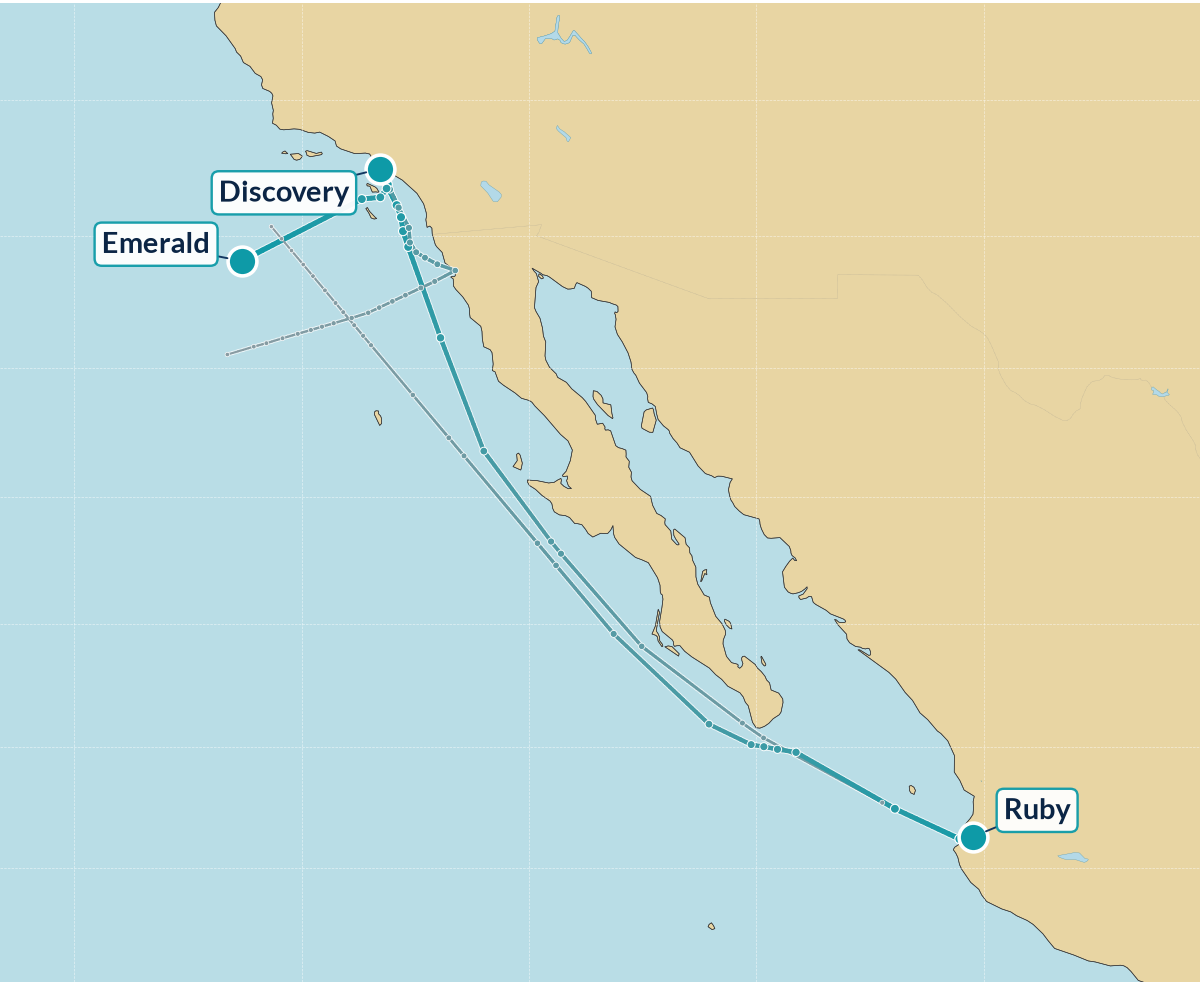
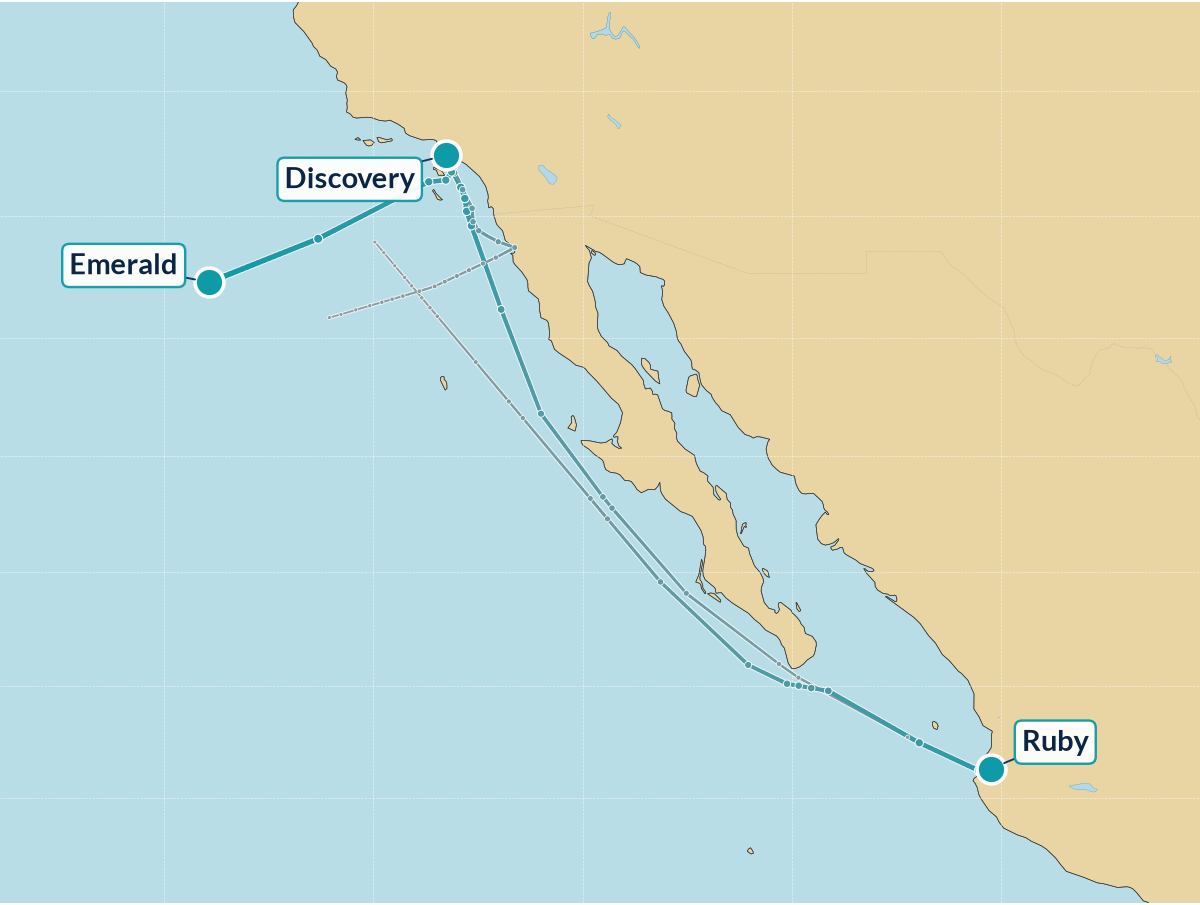
Update 10/17 17:00 PT

Changed region(s): [[0.0, 0.0, 1.0, 1.0], [0.4317, 0.0, 0.5242, 0.0619], [0.9558, 0.3713, 0.9867, 0.4022]]

diff --git a/index.html b/index.html
@@ -1,46 +1,46 @@
 <!DOCTYPE html><html lang="en"><head><meta charset="utf-8"><meta name="viewport" content="width=device-width, initial-scale=1"><meta http-equiv="refresh" content="1800"><meta name="description" content="Live Princess Cruises fleet tracker"><title>Princess Patter — Saturday, October 17, 2026</title></head>
 <body style="margin:0;padding:0;background-color:#dee2e8;">
-<div style="display:none;max-height:0;overflow:hidden;opacity:0;color:#dee2e8;font-size:1px;line-height:1px;">Saturday, October 17, 2026 — 8:00am PT | 17 ships | 7 at sea, 10 in port</div>
+<div style="display:none;max-height:0;overflow:hidden;opacity:0;color:#dee2e8;font-size:1px;line-height:1px;">Saturday, October 17, 2026 — 4:00pm PT | 17 ships | 12 at sea, 5 in port</div>
 <table role="presentation" width="100%" cellpadding="0" cellspacing="0" border="0" bgcolor="#dee2e8" style="background-color:#dee2e8;border-collapse:collapse;"><tr><td align="center" style="padding:16px 8px;">
 <table role="presentation" width="100%" cellpadding="0" cellspacing="0" border="0" bgcolor="#fdfdfb" style="width:100%;max-width:900px;background-color:#fdfdfb;border-collapse:collapse;border:1px solid #d6dae0;">
 <tr><td bgcolor="#1d3a6b" align="left" style="background-color:#1d3a6b;padding:24px 28px 24px 28px;"><div style="font-family:Georgia, 'Times New Roman', Times, serif;font-size:40px;line-height:46px;color:#ffffff;letter-spacing:0.5px;"><span style="color:#a8b6e2;">≋</span>&nbsp;Princess Patter</div></td></tr>
-<tr><td style="padding:0;"><table role="presentation" width="100%" cellpadding="0" cellspacing="0" border="0" style="border-collapse:collapse;"><tr><td height="5" bgcolor="#6a5aa8" style="background-color:#6a5aa8;height:5px;font-size:0;line-height:0;width:60%;">&nbsp;</td><td height="5" bgcolor="#2f6db5" style="background-color:#2f6db5;height:5px;font-size:0;line-height:0;width:40%;">&nbsp;</td></tr></table></td></tr><tr><td bgcolor="#1d3a6b" style="background:linear-gradient(#1d3a6b,#2f6db5);padding:10px 16px 14px;text-align:center;"><img src="regal.png?v=202610171601" alt="Regal Princess" style="width:100%;max-width:640px;height:auto;display:block;margin:0 auto;"></td></tr>
+<tr><td style="padding:0;"><table role="presentation" width="100%" cellpadding="0" cellspacing="0" border="0" style="border-collapse:collapse;"><tr><td height="5" bgcolor="#6a5aa8" style="background-color:#6a5aa8;height:5px;font-size:0;line-height:0;width:60%;">&nbsp;</td><td height="5" bgcolor="#2f6db5" style="background-color:#2f6db5;height:5px;font-size:0;line-height:0;width:40%;">&nbsp;</td></tr></table></td></tr><tr><td bgcolor="#1d3a6b" style="background:linear-gradient(#1d3a6b,#2f6db5);padding:10px 16px 14px;text-align:center;"><img src="regal.png?v=202610171700" alt="Regal Princess" style="width:100%;max-width:640px;height:auto;display:block;margin:0 auto;"></td></tr>
 <tr><td style="padding:22px 20px 6px 20px;">
-<div style="font-family:Georgia, 'Times New Roman', Times, serif;font-style:italic;font-size:20px;line-height:26px;color:#2f6db5;">Good morning!</div>
+<div style="font-family:Georgia, 'Times New Roman', Times, serif;font-style:italic;font-size:20px;line-height:26px;color:#2f6db5;">Good afternoon!</div>
 <div style="font-family:Georgia, 'Times New Roman', Times, serif;font-weight:bold;font-size:26px;line-height:32px;color:#1d3a6b;padding-top:6px;">Saturday, October 17, 2026</div>
-<div style="font-family:Helvetica, Arial, sans-serif;font-size:16px;line-height:22px;color:#2f6db5;padding-top:4px;">8:00am PT | 17 ships | 7 at sea, 10 in port</div>
-</td></tr><tr><td style="padding:14px 20px 0 20px;"><div style="font-family:Georgia, 'Times New Roman', Times, serif;font-style:italic;font-weight:bold;font-size:18px;color:#295aa0;padding:0 4px 4px;border-bottom:1px solid #295aa0;">pacific map</div><a href="map.png?v=202610171601"><img src="map.png?v=202610171601" alt="Pacific fleet map" style="width:100%;height:auto;display:block;margin-top:8px;border-radius:12px;border:2px solid #c8dee2;"></a></td></tr>
+<div style="font-family:Helvetica, Arial, sans-serif;font-size:16px;line-height:22px;color:#2f6db5;padding-top:4px;">4:00pm PT | 17 ships | 12 at sea, 5 in port</div>
+</td></tr><tr><td style="padding:14px 20px 0 20px;"><div style="font-family:Georgia, 'Times New Roman', Times, serif;font-style:italic;font-weight:bold;font-size:18px;color:#295aa0;padding:0 4px 4px;border-bottom:1px solid #295aa0;">pacific map</div><a href="map.png?v=202610171700"><img src="map.png?v=202610171700" alt="Pacific fleet map" style="width:100%;height:auto;display:block;margin-top:8px;border-radius:12px;border:2px solid #c8dee2;"></a></td></tr>
 <tr><td style="padding:14px 20px 4px 20px;">
 <table role="presentation" width="100%" cellpadding="0" cellspacing="0" border="0" style="border-collapse:collapse;width:100%;font-family:Helvetica, Arial, sans-serif;font-size:15px;line-height:20px;color:#262c38;">
 <tr bgcolor="#2f6db5" style="background-color:#2f6db5;"><td style="font-size:14px;line-height:18px;font-weight:bold;color:#ffffff;text-align:left;padding:9px 8px;padding-left:10px;" colspan="2">Ship</td><td style="font-size:14px;line-height:18px;font-weight:bold;color:#ffffff;text-align:left;padding:9px 8px;">Where</td><td style="font-size:14px;line-height:18px;font-weight:bold;color:#ffffff;text-align:left;padding:9px 8px;">Next Port</td></tr>
 <tr><td colspan="4" style="padding:14px 4px 4px 4px;border-bottom:1px solid #295aa0;font-family:Georgia, 'Times New Roman', Times, serif;font-style:italic;font-weight:bold;font-size:18px;line-height:22px;color:#295aa0;">canada &amp; new england</td></tr>
-<tr bgcolor="#eef0f3" style="background-color:#eef0f3;"><td width="18" style="padding:7px 0 7px 8px;vertical-align:top;width:18px;color:#1a9a9a;font-size:18px;">&nbsp;</td><td style="padding:7px 8px;vertical-align:top;"><b style="color:#1d3a6b;">Majestic</b></td><td style="padding:7px 8px;vertical-align:top;">New York <span style="white-space:nowrap;font-size:12px;color:#707884;" title="Forecast high/low">🌙&thinsp;47°</span> <span style="font-size:13px;color:#707884;">(1pm)</span></td><td style="padding:7px 8px;vertical-align:top;">Newport <span style="white-space:nowrap;font-size:12px;color:#707884;" title="Forecast high/low">☁&thinsp;56°/43°</span> <span style="font-size:13px;color:#707884;">(10/18 4am)</span></td></tr>
-<tr bgcolor="#ffffff" style="background-color:#ffffff;"><td width="18" style="padding:7px 0 7px 8px;vertical-align:top;width:18px;color:#1a9a9a;font-size:18px;">&nbsp;</td><td style="padding:7px 8px;vertical-align:top;"><b style="color:#1d3a6b;">Sapphire</b></td><td style="padding:7px 8px;vertical-align:top;">Halifax <span style="white-space:nowrap;font-size:12px;color:#707884;" title="Forecast high/low">☁&thinsp;42°</span> <span style="font-size:13px;color:#707884;">(12pm)</span></td><td style="padding:7px 8px;vertical-align:top;">Sydney NS <span style="font-size:13px;color:#707884;">(10/18 5am)</span></td></tr>
+<tr bgcolor="#eef0f3" style="background-color:#eef0f3;"><td width="18" style="padding:7px 0 7px 8px;vertical-align:top;width:18px;color:#1a9a9a;font-size:18px;">&nbsp;</td><td style="padding:7px 8px;vertical-align:top;"><b style="color:#1d3a6b;">Majestic</b></td><td style="padding:7px 8px;vertical-align:top;">At Sea <span style="white-space:nowrap;font-size:12px;color:#707884;" title="Forecast high/low">🌙&thinsp;53°</span> <span style="font-size:12px;color:#707884;"><span style="white-space:nowrap;">🌊 3 ft</span> &middot; <span style="white-space:nowrap;">💨 N 16 kt</span> &middot; <span style="white-space:nowrap;">🚢 12.7 kn</span></span></td><td style="padding:7px 8px;vertical-align:top;">Newport <span style="white-space:nowrap;font-size:12px;color:#707884;" title="Forecast high/low">☁&thinsp;56°/43°</span> <span style="font-size:13px;color:#707884;">(10/18 4am)</span></td></tr>
+<tr bgcolor="#ffffff" style="background-color:#ffffff;"><td width="18" style="padding:7px 0 7px 8px;vertical-align:top;width:18px;color:#1a9a9a;font-size:18px;">&nbsp;</td><td style="padding:7px 8px;vertical-align:top;"><b style="color:#1d3a6b;">Sapphire</b></td><td style="padding:7px 8px;vertical-align:top;">At Sea <span style="white-space:nowrap;font-size:12px;color:#707884;" title="Forecast high/low">☁&thinsp;49°</span> <span style="font-size:12px;color:#707884;"><span style="white-space:nowrap;">🌊 6 ft</span> &middot; <span style="white-space:nowrap;">💨 NW 10 kt</span> &middot; <span style="white-space:nowrap;">🚢 17.7 kn</span></span></td><td style="padding:7px 8px;vertical-align:top;">Sydney NS <span style="font-size:13px;color:#707884;">(10/18 5am)</span></td></tr>
 <tr><td colspan="4" style="padding:14px 4px 4px 4px;border-bottom:1px solid #295aa0;font-family:Georgia, 'Times New Roman', Times, serif;font-style:italic;font-weight:bold;font-size:18px;line-height:22px;color:#295aa0;">caribbean</td></tr>
-<tr bgcolor="#eef0f3" style="background-color:#eef0f3;"><td width="18" style="padding:7px 0 7px 8px;vertical-align:top;width:18px;color:#1a9a9a;font-size:18px;">&nbsp;</td><td style="padding:7px 8px;vertical-align:top;"><b style="color:#1d3a6b;">Caribbean</b></td><td style="padding:7px 8px;vertical-align:top;">At Sea <span style="white-space:nowrap;font-size:12px;color:#707884;" title="Forecast high/low">🌙&thinsp;85°</span> <span style="font-size:12px;color:#707884;"><span style="white-space:nowrap;">🌊 2 ft</span> &middot; <span style="white-space:nowrap;">💨 SSE 4 kt</span> &middot; <span style="white-space:nowrap;">🚢 18.2 kn</span></span></td><td style="padding:7px 8px;vertical-align:top;">Port Canaveral <span style="white-space:nowrap;font-size:12px;color:#707884;" title="Forecast high/low">☁&thinsp;80°/71°</span> <span style="font-size:13px;color:#707884;">(10/18 4am)</span></td></tr>
-<tr bgcolor="#ffffff" style="background-color:#ffffff;"><td width="18" style="padding:7px 0 7px 8px;vertical-align:top;width:18px;color:#1a9a9a;font-size:18px;">&nbsp;</td><td style="padding:7px 8px;vertical-align:top;"><b style="color:#1d3a6b;">Coral</b></td><td style="padding:7px 8px;vertical-align:top;">At Sea <span style="white-space:nowrap;font-size:12px;color:#707884;" title="Forecast high/low">🌙&thinsp;86°</span> <span style="font-size:12px;color:#707884;"><span style="white-space:nowrap;">🌊 4 ft</span> &middot; <span style="white-space:nowrap;">💨 E 10 kt</span> &middot; <span style="white-space:nowrap;">🚢 16.3 kn</span></span></td><td style="padding:7px 8px;vertical-align:top;">Philipsburg <span style="white-space:nowrap;font-size:12px;color:#707884;" title="Forecast high/low">🌦&thinsp;85°/82°</span> <span style="font-size:13px;color:#707884;">(10/18 6am)</span></td></tr>
-<tr bgcolor="#eef0f3" style="background-color:#eef0f3;"><td width="18" style="padding:7px 0 7px 8px;vertical-align:top;width:18px;color:#1a9a9a;font-size:18px;">&nbsp;</td><td style="padding:7px 8px;vertical-align:top;"><b style="color:#1d3a6b;">Regal</b></td><td style="padding:7px 8px;vertical-align:top;">Fort Lauderdale <span style="white-space:nowrap;font-size:12px;color:#707884;" title="Forecast high/low">🌧&thinsp;75°</span> <span style="font-size:13px;color:#707884;">(12pm)</span></td><td style="padding:7px 8px;vertical-align:top;">Princess Cays <span style="font-size:13px;color:#707884;">(10/18 6am)</span></td></tr>
-<tr bgcolor="#ffffff" style="background-color:#ffffff;"><td width="18" style="padding:7px 0 7px 8px;vertical-align:top;width:18px;color:#1a9a9a;font-size:18px;">&nbsp;</td><td style="padding:7px 8px;vertical-align:top;"><b style="color:#1d3a6b;">Star</b></td><td style="padding:7px 8px;vertical-align:top;">Oranjestad <span style="white-space:nowrap;font-size:12px;color:#707884;" title="Forecast high/low">🌙&thinsp;84°</span> <span style="font-size:13px;color:#707884;">(1pm)</span></td><td style="padding:7px 8px;vertical-align:top;">Fort Lauderdale <span style="white-space:nowrap;font-size:12px;color:#707884;" title="Forecast high/low">🌦&thinsp;83°/78°</span> <span style="font-size:13px;color:#707884;">(10/20 3am)</span></td></tr>
+<tr bgcolor="#eef0f3" style="background-color:#eef0f3;"><td width="18" style="padding:7px 0 7px 8px;vertical-align:top;width:18px;color:#1a9a9a;font-size:18px;">&nbsp;</td><td style="padding:7px 8px;vertical-align:top;"><b style="color:#1d3a6b;">Caribbean</b></td><td style="padding:7px 8px;vertical-align:top;">At Sea <span style="white-space:nowrap;font-size:12px;color:#707884;" title="Forecast high/low">☁&thinsp;84°</span> <span style="font-size:12px;color:#707884;"><span style="white-space:nowrap;">🌊 1 ft</span> &middot; <span style="white-space:nowrap;">💨 NNW 7 kt</span> &middot; <span style="white-space:nowrap;">🚢 16.1 kn</span></span></td><td style="padding:7px 8px;vertical-align:top;">Port Canaveral <span style="white-space:nowrap;font-size:12px;color:#707884;" title="Forecast high/low">☁&thinsp;80°/71°</span> <span style="font-size:13px;color:#707884;">(10/18 4am)</span></td></tr>
+<tr bgcolor="#ffffff" style="background-color:#ffffff;"><td width="18" style="padding:7px 0 7px 8px;vertical-align:top;width:18px;color:#1a9a9a;font-size:18px;">&nbsp;</td><td style="padding:7px 8px;vertical-align:top;"><b style="color:#1d3a6b;">Coral</b></td><td style="padding:7px 8px;vertical-align:top;">At Sea <span style="white-space:nowrap;font-size:12px;color:#707884;" title="Forecast high/low">☁&thinsp;85°</span> <span style="font-size:12px;color:#707884;"><span style="white-space:nowrap;">🌊 4 ft</span> &middot; <span style="white-space:nowrap;">💨 E 12 kt</span> &middot; <span style="white-space:nowrap;">🚢 16.3 kn</span></span></td><td style="padding:7px 8px;vertical-align:top;">Philipsburg <span style="white-space:nowrap;font-size:12px;color:#707884;" title="Forecast high/low">🌦&thinsp;85°/82°</span> <span style="font-size:13px;color:#707884;">(10/18 6am)</span></td></tr>
+<tr bgcolor="#eef0f3" style="background-color:#eef0f3;"><td width="18" style="padding:7px 0 7px 8px;vertical-align:top;width:18px;color:#1a9a9a;font-size:18px;">&nbsp;</td><td style="padding:7px 8px;vertical-align:top;"><b style="color:#1d3a6b;">Regal</b></td><td style="padding:7px 8px;vertical-align:top;">At Sea <span style="white-space:nowrap;font-size:12px;color:#707884;" title="Forecast high/low">☁&thinsp;81°</span> <span style="font-size:12px;color:#707884;"><span style="white-space:nowrap;">🌊 1 ft</span> &middot; <span style="white-space:nowrap;">💨 NNW 17 kt</span> &middot; <span style="white-space:nowrap;">🚢 16.8 kn</span></span></td><td style="padding:7px 8px;vertical-align:top;">Princess Cays <span style="font-size:13px;color:#707884;">(10/18 6am)</span></td></tr>
+<tr bgcolor="#ffffff" style="background-color:#ffffff;"><td width="18" style="padding:7px 0 7px 8px;vertical-align:top;width:18px;color:#1a9a9a;font-size:18px;">&nbsp;</td><td style="padding:7px 8px;vertical-align:top;"><b style="color:#1d3a6b;">Star</b></td><td style="padding:7px 8px;vertical-align:top;">At Sea <span style="white-space:nowrap;font-size:12px;color:#707884;" title="Forecast high/low">🌙&thinsp;84°</span> <span style="font-size:12px;color:#707884;"><span style="white-space:nowrap;">🌊 5 ft</span> &middot; <span style="white-space:nowrap;">💨 E 19 kt</span> &middot; <span style="white-space:nowrap;">🚢 19.5 kn</span></span></td><td style="padding:7px 8px;vertical-align:top;">Fort Lauderdale <span style="white-space:nowrap;font-size:12px;color:#707884;" title="Forecast high/low">🌦&thinsp;82°/79°</span> <span style="font-size:13px;color:#707884;">(10/20 3am)</span></td></tr>
 <tr><td colspan="4" style="padding:14px 4px 4px 4px;border-bottom:1px solid #295aa0;font-family:Georgia, 'Times New Roman', Times, serif;font-style:italic;font-weight:bold;font-size:18px;line-height:22px;color:#295aa0;">hawaii</td></tr>
-<tr bgcolor="#eef0f3" style="background-color:#eef0f3;"><td width="18" style="padding:7px 0 7px 8px;vertical-align:top;width:18px;color:#1a9a9a;font-size:18px;">&nbsp;</td><td style="padding:7px 8px;vertical-align:top;"><b style="color:#1d3a6b;">Emerald</b></td><td style="padding:7px 8px;vertical-align:top;">At Sea <span style="white-space:nowrap;font-size:12px;color:#707884;" title="Forecast high/low">☀&thinsp;67°</span> <span style="font-size:12px;color:#707884;"><span style="white-space:nowrap;">🌊 5 ft</span> &middot; <span style="white-space:nowrap;">💨 E 7 kt</span> &middot; <span style="white-space:nowrap;">🚢 17.3 kn</span></span></td><td style="padding:7px 8px;vertical-align:top;">Hilo <span style="white-space:nowrap;font-size:12px;color:#707884;" title="Forecast high/low">🌦&thinsp;78°/62°</span> <span style="font-size:13px;color:#707884;">(10/22 11am)</span></td></tr>
+<tr bgcolor="#eef0f3" style="background-color:#eef0f3;"><td width="18" style="padding:7px 0 7px 8px;vertical-align:top;width:18px;color:#1a9a9a;font-size:18px;">&nbsp;</td><td style="padding:7px 8px;vertical-align:top;"><b style="color:#1d3a6b;">Emerald</b></td><td style="padding:7px 8px;vertical-align:top;">At Sea <span style="white-space:nowrap;font-size:12px;color:#707884;" title="Forecast high/low">☀&thinsp;67°</span> <span style="font-size:12px;color:#707884;"><span style="white-space:nowrap;">🌊 5 ft</span> &middot; <span style="white-space:nowrap;">💨 N 12 kt</span> &middot; <span style="white-space:nowrap;">🚢 17.5 kn</span></span></td><td style="padding:7px 8px;vertical-align:top;">Hilo <span style="white-space:nowrap;font-size:12px;color:#707884;" title="Forecast high/low">🌦&thinsp;78°/62°</span> <span style="font-size:13px;color:#707884;">(10/22 11am)</span></td></tr>
 <tr><td colspan="4" style="padding:14px 4px 4px 4px;border-bottom:1px solid #295aa0;font-family:Georgia, 'Times New Roman', Times, serif;font-style:italic;font-weight:bold;font-size:18px;line-height:22px;color:#295aa0;">mexican riviera</td></tr>
-<tr bgcolor="#eef0f3" style="background-color:#eef0f3;"><td width="18" style="padding:7px 0 7px 8px;vertical-align:top;width:18px;color:#1a9a9a;font-size:18px;">&nbsp;</td><td style="padding:7px 8px;vertical-align:top;"><b style="color:#1d3a6b;">Discovery</b></td><td style="padding:7px 8px;vertical-align:top;">Los Angeles <span style="white-space:nowrap;font-size:12px;color:#707884;" title="Forecast high/low">☁&thinsp;90°</span> <span style="font-size:13px;color:#707884;">(3pm)</span></td><td style="padding:7px 8px;vertical-align:top;">Cabo San Lucas <span style="white-space:nowrap;font-size:12px;color:#707884;" title="Forecast high/low">⛈&thinsp;92°/78°</span> <span style="font-size:13px;color:#707884;">(10/19 12pm)</span></td></tr>
+<tr bgcolor="#eef0f3" style="background-color:#eef0f3;"><td width="18" style="padding:7px 0 7px 8px;vertical-align:top;width:18px;color:#1a9a9a;font-size:18px;">&nbsp;</td><td style="padding:7px 8px;vertical-align:top;"><b style="color:#1d3a6b;">Discovery</b></td><td style="padding:7px 8px;vertical-align:top;">Los Angeles <span style="white-space:nowrap;font-size:12px;color:#707884;" title="Forecast high/low">☁&thinsp;89°</span> <span style="font-size:13px;color:#707884;">(3pm)</span></td><td style="padding:7px 8px;vertical-align:top;">Cabo San Lucas <span style="white-space:nowrap;font-size:12px;color:#707884;" title="Forecast high/low">⛈&thinsp;92°/78°</span> <span style="font-size:13px;color:#707884;">(10/19 12pm)</span></td></tr>
 <tr bgcolor="#ffffff" style="background-color:#ffffff;"><td width="18" style="padding:7px 0 7px 8px;vertical-align:top;width:18px;color:#1a9a9a;font-size:18px;">&nbsp;</td><td style="padding:7px 8px;vertical-align:top;"><b style="color:#1d3a6b;">Ruby</b></td><td style="padding:7px 8px;vertical-align:top;">Puerto Vallarta <span style="white-space:nowrap;font-size:12px;color:#707884;" title="Forecast high/low">☁&thinsp;84°</span> <span style="font-size:13px;color:#707884;">(5pm)</span></td><td style="padding:7px 8px;vertical-align:top;">Manzanillo <span style="white-space:nowrap;font-size:12px;color:#707884;" title="Forecast high/low">🌦&thinsp;86°/73°</span> <span style="font-size:13px;color:#707884;">(10/18 6am)</span></td></tr>
 <tr><td colspan="4" style="padding:14px 4px 4px 4px;border-bottom:1px solid #295aa0;font-family:Georgia, 'Times New Roman', Times, serif;font-style:italic;font-weight:bold;font-size:18px;line-height:22px;color:#295aa0;">asia</td></tr>
-<tr bgcolor="#eef0f3" style="background-color:#eef0f3;"><td width="18" style="padding:7px 0 7px 8px;vertical-align:top;width:18px;color:#1a9a9a;font-size:18px;">&nbsp;</td><td style="padding:7px 8px;vertical-align:top;"><b style="color:#1d3a6b;">Diamond</b></td><td style="padding:7px 8px;vertical-align:top;">At Sea <span style="white-space:nowrap;font-size:12px;color:#707884;" title="Forecast high/low">☀&thinsp;80°</span> <span style="font-size:12px;color:#707884;"><span style="white-space:nowrap;">🌊 5 ft</span> &middot; <span style="white-space:nowrap;">💨 SE 18 kt</span> &middot; <span style="white-space:nowrap;">🚢 18.6 kn</span></span></td><td style="padding:7px 8px;vertical-align:top;">Yokohama <span style="white-space:nowrap;font-size:12px;color:#707884;" title="Forecast high/low">☀&thinsp;71°/55°</span> <span style="font-size:13px;color:#707884;">(10/18 2:30pm)</span></td></tr>
+<tr bgcolor="#eef0f3" style="background-color:#eef0f3;"><td width="18" style="padding:7px 0 7px 8px;vertical-align:top;width:18px;color:#1a9a9a;font-size:18px;">&nbsp;</td><td style="padding:7px 8px;vertical-align:top;"><b style="color:#1d3a6b;">Diamond</b></td><td style="padding:7px 8px;vertical-align:top;">At Sea <span style="white-space:nowrap;font-size:12px;color:#707884;" title="Forecast high/low">☀&thinsp;78°</span> <span style="font-size:12px;color:#707884;"><span style="white-space:nowrap;">🌊 7 ft</span> &middot; <span style="white-space:nowrap;">💨 ESE 23 kt</span> &middot; <span style="white-space:nowrap;">🚢 18.3 kn</span></span></td><td style="padding:7px 8px;vertical-align:top;">Yokohama <span style="white-space:nowrap;font-size:12px;color:#707884;" title="Forecast high/low">⛅&thinsp;72°/55°</span> <span style="font-size:13px;color:#707884;">(10/18 2:30pm)</span></td></tr>
 <tr bgcolor="#ffffff" style="background-color:#ffffff;"><td width="18" style="padding:7px 0 7px 8px;vertical-align:top;width:18px;color:#1a9a9a;font-size:18px;">&nbsp;</td><td style="padding:7px 8px;vertical-align:top;"><b style="color:#1d3a6b;">Royal</b></td><td style="padding:7px 8px;vertical-align:top;">Singapore <span style="font-size:13px;color:#707884;">(Drydock)</span></td><td style="padding:7px 8px;vertical-align:top;">Drydock <span style="font-size:13px;color:#707884;">(to 11/1)</span></td></tr>
 <tr><td colspan="4" style="padding:14px 4px 4px 4px;border-bottom:1px solid #295aa0;font-family:Georgia, 'Times New Roman', Times, serif;font-style:italic;font-weight:bold;font-size:18px;line-height:22px;color:#295aa0;">australia &amp; new zealand</td></tr>
-<tr bgcolor="#eef0f3" style="background-color:#eef0f3;"><td width="18" style="padding:7px 0 7px 8px;vertical-align:top;width:18px;color:#1a9a9a;font-size:18px;">&nbsp;</td><td style="padding:7px 8px;vertical-align:top;"><b style="color:#1d3a6b;">Crown</b></td><td style="padding:7px 8px;vertical-align:top;">At Sea <span style="white-space:nowrap;font-size:12px;color:#707884;" title="Forecast high/low">☀&thinsp;63°</span> <span style="font-size:12px;color:#707884;"><span style="white-space:nowrap;">🌊 12 ft</span> &middot; <span style="white-space:nowrap;">💨 WSW 18 kt</span> &middot; <span style="white-space:nowrap;">🚢 10.7 kn</span></span></td><td style="padding:7px 8px;vertical-align:top;">Fremantle <span style="white-space:nowrap;font-size:12px;color:#707884;" title="Forecast high/low">🌦&thinsp;65°/60°</span> <span style="font-size:13px;color:#707884;">(10/17 4pm)</span></td></tr>
+<tr bgcolor="#eef0f3" style="background-color:#eef0f3;"><td width="18" style="padding:7px 0 7px 8px;vertical-align:top;width:18px;color:#1a9a9a;font-size:18px;">&nbsp;</td><td style="padding:7px 8px;vertical-align:top;"><b style="color:#1d3a6b;">Crown</b></td><td style="padding:7px 8px;vertical-align:top;">Fremantle <span style="white-space:nowrap;font-size:12px;color:#707884;" title="Forecast high/low">☀&thinsp;64°</span> <span style="font-size:13px;color:#707884;">(10/18 1am)</span></td><td style="padding:7px 8px;vertical-align:top;">Broome <span style="white-space:nowrap;font-size:12px;color:#707884;" title="Forecast high/low">☀&thinsp;87°/80°</span> <span style="font-size:13px;color:#707884;">(10/20 7pm)</span></td></tr>
 <tr><td colspan="4" style="padding:14px 4px 4px 4px;border-bottom:1px solid #295aa0;font-family:Georgia, 'Times New Roman', Times, serif;font-style:italic;font-weight:bold;font-size:18px;line-height:22px;color:#295aa0;">mediterranean</td></tr>
-<tr bgcolor="#eef0f3" style="background-color:#eef0f3;"><td width="18" style="padding:7px 0 7px 8px;vertical-align:top;width:18px;color:#1a9a9a;font-size:18px;">&nbsp;</td><td style="padding:7px 8px;vertical-align:top;"><b style="color:#1d3a6b;">Enchanted</b></td><td style="padding:7px 8px;vertical-align:top;">At Sea <span style="white-space:nowrap;font-size:12px;color:#707884;" title="Forecast high/low">🌙&thinsp;62°</span> <span style="font-size:12px;color:#707884;"><span style="white-space:nowrap;">🌊 2 ft</span> &middot; <span style="white-space:nowrap;">💨 N 4 kt</span> &middot; <span style="white-space:nowrap;">🚢 20.1 kn</span></span></td><td style="padding:7px 8px;vertical-align:top;">Katakolon <span style="font-size:13px;color:#707884;">(10/18 2am)</span></td></tr>
-<tr bgcolor="#ffffff" style="background-color:#ffffff;"><td width="18" style="padding:7px 0 7px 8px;vertical-align:top;width:18px;color:#1a9a9a;font-size:18px;">&nbsp;</td><td style="padding:7px 8px;vertical-align:top;"><b style="color:#1d3a6b;">Island</b></td><td style="padding:7px 8px;vertical-align:top;">Cadiz <span style="white-space:nowrap;font-size:12px;color:#707884;" title="Forecast high/low">🌙&thinsp;69°</span> <span style="font-size:13px;color:#707884;">(11am)</span></td><td style="padding:7px 8px;vertical-align:top;">Cartagena <span style="white-space:nowrap;font-size:12px;color:#707884;" title="Forecast high/low">🌦&thinsp;85°/75°</span> <span style="font-size:13px;color:#707884;">(10/18 10pm)</span></td></tr>
-<tr bgcolor="#eef0f3" style="background-color:#eef0f3;"><td width="18" style="padding:7px 0 7px 8px;vertical-align:top;width:18px;color:#1a9a9a;font-size:18px;">&nbsp;</td><td style="padding:7px 8px;vertical-align:top;"><b style="color:#1d3a6b;">Sun</b></td><td style="padding:7px 8px;vertical-align:top;">Civitavecchia <span style="white-space:nowrap;font-size:12px;color:#707884;" title="Forecast high/low">🌙&thinsp;67°</span> <span style="font-size:13px;color:#707884;">(9am)</span></td><td style="padding:7px 8px;vertical-align:top;">Naples <span style="white-space:nowrap;font-size:12px;color:#707884;" title="Forecast high/low">☀&thinsp;73°/59°</span> <span style="font-size:13px;color:#707884;">(10/17 10pm)</span></td></tr>
+<tr bgcolor="#eef0f3" style="background-color:#eef0f3;"><td width="18" style="padding:7px 0 7px 8px;vertical-align:top;width:18px;color:#1a9a9a;font-size:18px;">&nbsp;</td><td style="padding:7px 8px;vertical-align:top;"><b style="color:#1d3a6b;">Enchanted</b></td><td style="padding:7px 8px;vertical-align:top;">At Sea <span style="white-space:nowrap;font-size:12px;color:#707884;" title="Forecast high/low">🌙&thinsp;64°</span> <span style="font-size:12px;color:#707884;"><span style="white-space:nowrap;">🌊 2 ft</span> &middot; <span style="white-space:nowrap;">💨 SSE 3 kt</span> &middot; <span style="white-space:nowrap;">🚢 20.5 kn</span></span></td><td style="padding:7px 8px;vertical-align:top;">Katakolon <span style="font-size:13px;color:#707884;">(10/18 2am)</span></td></tr>
+<tr bgcolor="#ffffff" style="background-color:#ffffff;"><td width="18" style="padding:7px 0 7px 8px;vertical-align:top;width:18px;color:#1a9a9a;font-size:18px;">&nbsp;</td><td style="padding:7px 8px;vertical-align:top;"><b style="color:#1d3a6b;">Island</b></td><td style="padding:7px 8px;vertical-align:top;">At Sea <span style="white-space:nowrap;font-size:12px;color:#707884;" title="Forecast high/low">🌧&thinsp;69°</span> <span style="font-size:12px;color:#707884;"><span style="white-space:nowrap;">🌊 2 ft</span> &middot; <span style="white-space:nowrap;">💨 E 4 kt</span> &middot; <span style="white-space:nowrap;">🚢 10.0 kn</span></span></td><td style="padding:7px 8px;vertical-align:top;">Cartagena <span style="white-space:nowrap;font-size:12px;color:#707884;" title="Forecast high/low">🌦&thinsp;85°/75°</span> <span style="font-size:13px;color:#707884;">(10/18 10pm)</span></td></tr>
+<tr bgcolor="#eef0f3" style="background-color:#eef0f3;"><td width="18" style="padding:7px 0 7px 8px;vertical-align:top;width:18px;color:#1a9a9a;font-size:18px;">&nbsp;</td><td style="padding:7px 8px;vertical-align:top;"><b style="color:#1d3a6b;">Sun</b></td><td style="padding:7px 8px;vertical-align:top;">At Sea <span style="white-space:nowrap;font-size:12px;color:#707884;" title="Forecast high/low">🌙&thinsp;71°</span> <span style="font-size:12px;color:#707884;"><span style="white-space:nowrap;">🌊 1 ft</span> &middot; <span style="white-space:nowrap;">💨 SE 6 kt</span> &middot; <span style="white-space:nowrap;">🚢 15.3 kn</span></span></td><td style="padding:7px 8px;vertical-align:top;">Naples <span style="white-space:nowrap;font-size:12px;color:#707884;" title="Forecast high/low">☀&thinsp;72°/59°</span> <span style="font-size:13px;color:#707884;">(10/17 10pm)</span></td></tr>
 <tr><td colspan="4" style="padding:14px 4px 4px 4px;border-bottom:1px solid #295aa0;font-family:Georgia, 'Times New Roman', Times, serif;font-style:italic;font-weight:bold;font-size:18px;line-height:22px;color:#295aa0;">northern europe</td></tr>
-<tr bgcolor="#eef0f3" style="background-color:#eef0f3;"><td width="18" style="padding:7px 0 7px 8px;vertical-align:top;width:18px;color:#1a9a9a;font-size:18px;">&nbsp;</td><td style="padding:7px 8px;vertical-align:top;"><b style="color:#1d3a6b;">Sky</b></td><td style="padding:7px 8px;vertical-align:top;">Oslo <span style="white-space:nowrap;font-size:12px;color:#707884;" title="Forecast high/low">🌙&thinsp;40°</span> <span style="font-size:13px;color:#707884;">(10/18)</span></td><td style="padding:7px 8px;vertical-align:top;">Stavanger <span style="white-space:nowrap;font-size:12px;color:#707884;" title="Forecast high/low">⛅&thinsp;52°/42°</span></td></tr>
+<tr bgcolor="#eef0f3" style="background-color:#eef0f3;"><td width="18" style="padding:7px 0 7px 8px;vertical-align:top;width:18px;color:#1a9a9a;font-size:18px;">&nbsp;</td><td style="padding:7px 8px;vertical-align:top;"><b style="color:#1d3a6b;">Sky</b></td><td style="padding:7px 8px;vertical-align:top;">Oslo <span style="white-space:nowrap;font-size:12px;color:#707884;" title="Forecast high/low">🌙&thinsp;40°</span> <span style="font-size:13px;color:#707884;">(10/18)</span></td><td style="padding:7px 8px;vertical-align:top;">Stavanger <span style="white-space:nowrap;font-size:12px;color:#707884;" title="Forecast high/low">⛅&thinsp;53°/43°</span></td></tr>
 <tr><td colspan="4" style="padding:14px 4px 4px 4px;border-bottom:1px solid #295aa0;font-family:Georgia, 'Times New Roman', Times, serif;font-style:italic;font-weight:bold;font-size:18px;line-height:22px;color:#295aa0;">tahiti &amp; south pacific</td></tr>
-<tr bgcolor="#eef0f3" style="background-color:#eef0f3;"><td width="18" style="padding:7px 0 7px 8px;vertical-align:top;width:18px;color:#1a9a9a;font-size:18px;">&nbsp;</td><td style="padding:7px 8px;vertical-align:top;"><b style="color:#1d3a6b;">Grand</b></td><td style="padding:7px 8px;vertical-align:top;">At Sea <span style="white-space:nowrap;font-size:12px;color:#707884;" title="Forecast high/low">🌦&thinsp;84°</span> <span style="font-size:12px;color:#707884;"><span style="white-space:nowrap;">🌊 5 ft</span> &middot; <span style="white-space:nowrap;">💨 E 9 kt</span> &middot; <span style="white-space:nowrap;">🚢 17.9 kn</span></span></td><td style="padding:7px 8px;vertical-align:top;">Apia <span style="white-space:nowrap;font-size:12px;color:#707884;" title="Forecast high/low">🌦&thinsp;81°/71°</span> <span style="font-size:13px;color:#707884;">(10/20 12pm)</span></td></tr>
+<tr bgcolor="#eef0f3" style="background-color:#eef0f3;"><td width="18" style="padding:7px 0 7px 8px;vertical-align:top;width:18px;color:#1a9a9a;font-size:18px;">&nbsp;</td><td style="padding:7px 8px;vertical-align:top;"><b style="color:#1d3a6b;">Grand</b></td><td style="padding:7px 8px;vertical-align:top;">At Sea <span style="white-space:nowrap;font-size:12px;color:#707884;" title="Forecast high/low">☀&thinsp;84°</span> <span style="font-size:12px;color:#707884;"><span style="white-space:nowrap;">🌊 5 ft</span> &middot; <span style="white-space:nowrap;">💨 SE 4 kt</span> &middot; <span style="white-space:nowrap;">🚢 17.2 kn</span></span></td><td style="padding:7px 8px;vertical-align:top;">Apia <span style="white-space:nowrap;font-size:12px;color:#707884;" title="Forecast high/low">🌦&thinsp;81°/71°</span> <span style="font-size:13px;color:#707884;">(10/20 12pm)</span></td></tr>
 </table>
 </td></tr>
 <tr><td align="center" style="padding:22px 20px 6px 20px;font-family:Georgia, 'Times New Roman', Times, serif;font-style:italic;font-size:17px;line-height:24px;color:#295aa0;text-align:center;">“Bon voyage!”</td></tr>
-<tr><td align="center" style="padding:2px 20px 24px 20px;font-family:Helvetica, Arial, sans-serif;font-size:12px;line-height:18px;color:#707884;text-align:center;">Fleet positions from Pavlus AIS plus published schedules. Dates/times PT; ~ = AIS estimate.<br>Page updated 10/17/26 4:01pm PT after each fleet check-in.</td></tr>
+<tr><td align="center" style="padding:2px 20px 24px 20px;font-family:Helvetica, Arial, sans-serif;font-size:12px;line-height:18px;color:#707884;text-align:center;">Fleet positions from Pavlus AIS plus published schedules. Dates/times PT; ~ = AIS estimate.<br>Page updated 10/17/26 5:00pm PT after each fleet check-in.</td></tr>
 </table></td></tr></table></body></html>
